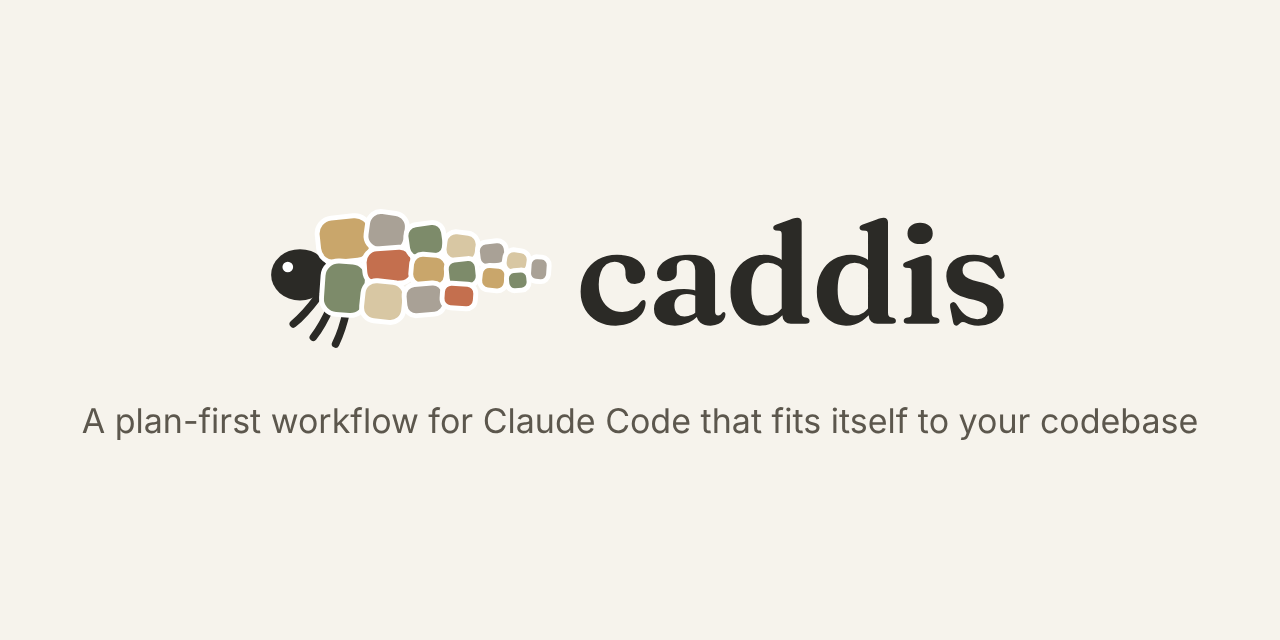
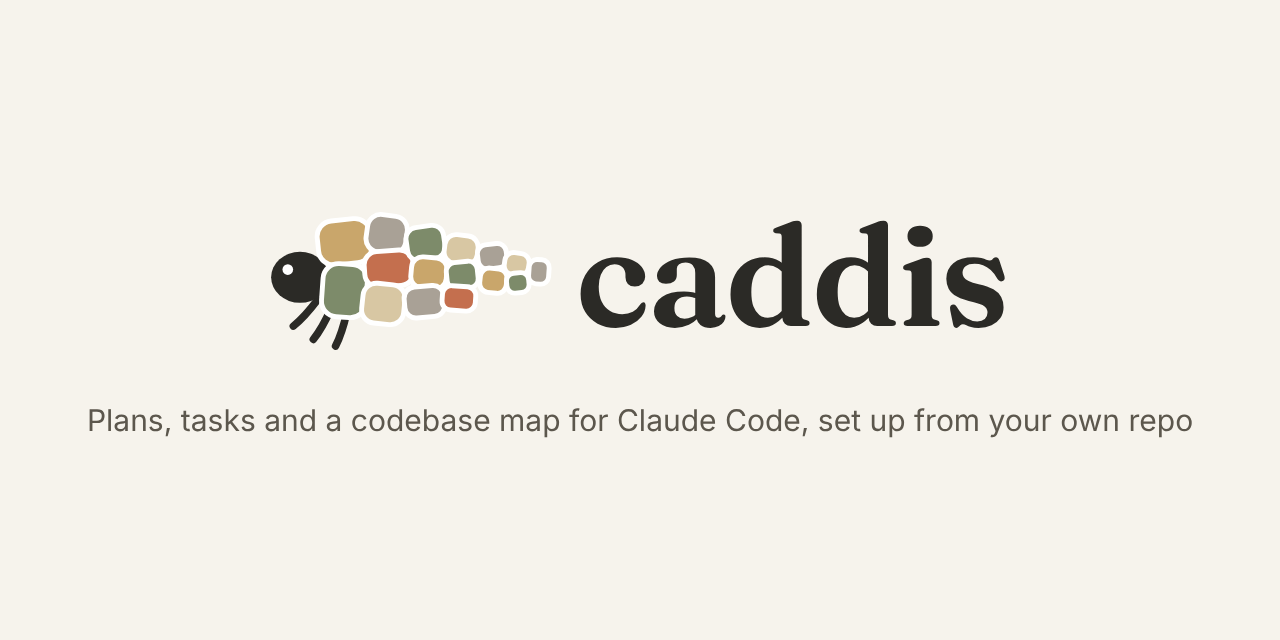
Cleaning caddis shell

diff --git a/README.md b/README.md
@@ -1,46 +1,34 @@
 <p align="center"><img src="docs/caddis-logo.svg" alt="Caddis" width="420"></p>
 
-<p align="center">A plan-first workflow for Claude Code that fits itself to your codebase.</p>
+<p align="center">Plans, tasks and a codebase map for Claude Code, set up from your own repo.</p>
 
-![A Caddis task: a small change recorded, made, checked and committed in one go](docs/demo.gif)
+![A Caddis task: the request, the task file, the edit, the checks and the commit](docs/demo.gif)
 
-Caddisfly larvae build their case from whatever is around them: sand, twigs, shell. Caddis
-does the same with your repo. One `/caddis:init` reads your codebase and writes down how it
-actually works (the commands, the rules, the risky parts, where things live), and every
-skill works from that.
+A caddisfly larva builds its case from whatever is nearby: sand, twigs, bits of shell.
+`/caddis:init` does the same with a repo. It reads the code, CI, docs and git history and
+writes `.caddis/caddis.md`: the commands, the rules that must never break, what counts as
+risky, the commit style. Every Caddis skill reads that file, so the skills stay generic and
+the repo-specific facts live in one place you can edit.
 
-What you get:
+- **Projects.** Evaluate an idea, write a plan, review all open plans in one pass, then build
+  them unattended. The build records its decisions instead of asking, and stops only for
+  publishing, spending money, secrets, or deleting outside the repo.
+- **Tasks.** Small changes skip the plan. `/caddis:task` writes a short task file, makes the
+  change, runs the checks and commits. If the work turns out risky, it becomes a project.
+- **The map.** A script builds the import graph from the imports in your code. Claude writes
+  `STRUCTURE.md` on top of it: areas, entry points, the most-imported files, the main flows,
+  where new code goes. A hook at session start says when it is out of date.
 
-- **Plans before code.** Evaluate an idea, write a plan, review every plan in one sitting,
-  then let the build run unattended. It decides and records instead of asking, and only
-  stops for things you'd want to approve: publishing, spending money, secrets, deleting
-  outside the repo.
-- **A light path for small work.** A one-line fix doesn't need a 100-line plan. `/caddis:task`
-  writes a short record, makes the change, verifies it and commits, in one go. It escalates
-  to a full plan if the work turns out risky.
-- **A codebase map Claude can trust.** A script builds the import graph from real imports
-  (no guessed edges), and Claude writes a short human map on top: what lives where, entry
-  points, hubs, the main flows, where new things go. A session-start hook says when the
-  map has gone stale.
-- **History you can read.** Every plan and task stays in `.caddis/projects/completed/` with what was
-  built, the decisions taken and what was learned.
+Finished plans and tasks stay in `.caddis/projects/completed/` with what was built and why.
 
 ## Install
-
-In Claude Code:
-
-```
-/plugin marketplace add adivmaimon/caddis
-/plugin install caddis@caddis
-```
-
-Or from your shell, in one step:
 
 ```
 claude plugin install caddis --marketplace adivmaimon/caddis
 ```
 
-In the VS Code extension, use `/plugins` (or the shell command above).
+Or inside Claude Code: `/plugin marketplace add adivmaimon/caddis`, then
+`/plugin install caddis@caddis`. In the VS Code extension the command is `/plugins`.
 
 Then, in your repo:
 
@@ -48,89 +36,78 @@ Then, in your repo:
 /caddis:init
 ```
 
-Init scans the repo, builds the map, writes `.caddis/caddis.md`, asks you a handful of
-questions in one batch (your invariants, anything it had to guess), and commits the setup.
+Init builds the map, writes `.caddis/caddis.md`, asks its questions in one batch (your
+rules, anything it had to guess) and commits.
 
-Requirements: Claude Code with plugin support, git, Python 3.8+ (for the map script, no
-packages needed).
+Needs Claude Code with plugin support, git, and Python 3.8+ for the map script.
 
-## The workflow
+## Skills
 
 | When | Skill |
 | --- | --- |
-| Start of a session | `/caddis:learn` loads recent commits, active plans, map freshness and health |
-| Is this a good idea? | `/caddis:evaluate` gives a verdict, impact per layer, risk, alternatives |
-| Small, low-risk change | `/caddis:task` records it, does it, verifies it, commits it |
-| Anything bigger | `/caddis:project` writes a plan to `.caddis/projects/active/` |
-| Before building | `/caddis:review` checks every plan, asks you everything at once, marks them Reviewed |
-| Build | `/caddis:build` runs every reviewed plan end to end, unattended |
+| Start of a session | `/caddis:learn`: recent commits, open plans, map and log health |
+| Is this worth doing? | `/caddis:evaluate`: verdict, impact per layer, risk, alternatives |
+| A small change | `/caddis:task` |
+| Anything bigger | `/caddis:project`: a plan in `.caddis/projects/active/` |
+| Before building | `/caddis:review`: checks every plan, asks you everything at once |
+| Build | `/caddis:build`: runs every reviewed plan, unattended |
 | Build one plan | `/caddis:execute` |
 | Tests | `/caddis:tests` |
-| Commit a chunk | `/caddis:commit` stages only that chunk, conventional message |
-| Done | `/caddis:complete` adds the outcome record and moves it to `completed/` |
-| Map | `/caddis:map` builds or refreshes the codebase map |
-| Monthly | `/caddis:maintenance` runs the full audit, with a running log |
+| Commit | `/caddis:commit`: stages only this chunk of work |
+| Done | `/caddis:complete`: adds the outcome and moves it to `completed/` |
+| Map | `/caddis:map` |
+| Monthly | `/caddis:maintenance`: full audit, with a log carried between runs |
 
-The usual loop: **evaluate, project, review, build.** Small things: **task.**
+You can also ask in plain words ("create a task to...", "write a plan for..."). Naming the
+skill is more reliable.
 
-### Task or project?
-
-A task must meet all of these, or it's a project:
+A change is a task only if all of these hold, otherwise it is a project:
 - about 3 files or fewer, in one layer
-- nothing on the Risk list (migrations, auth, payments, secrets, data deletion, public API
-  changes, new dependencies, plus whatever your repo adds)
-- no invariant touched
-- no experiment needed
+- nothing on the Risk list in `caddis.md`
+- no rule from `caddis.md` touched
+- no experiment needed to pick the approach
 - one commit can revert it
-
-`/caddis:project` sends qualifying work to the task path, and a task that turns out risky
-becomes a project.
 
 ## What init creates
 
 ```
 .caddis/
-  caddis.md              everything specific to this repo: commands, stack, layers,
-                         invariants, risk, docs, commit style, tests, hard stops
+  caddis.md              commands, stack, layers, rules, risk, docs, commits, tests,
+                         hard stops
   projects/active/       plans and tasks in progress
-  projects/completed/    finished plans and tasks, with outcome records
-  map/STRUCTURE.md       the human map (committed)
-  map/graph.json         the import graph (cache, gitignored, rebuilt on demand)
+  projects/completed/    finished plans and tasks
+  map/STRUCTURE.md       the map Claude reads (committed)
+  map/graph.json         the import graph (gitignored, rebuilt when needed)
   bin/map.py             the map script, so the repo works without the plugin
-CLAUDE.md                a short Caddis block pointing at the above
-.claude/settings.json    permissions merged in: Caddis skills and your commands
-                         allowed, git push and sudo denied
-.claude/skills/          repo-specific skills, only where your repo needs one
-                         (release, migrations, bench, logs)
+CLAUDE.md                a short block pointing at the above
+.claude/settings.json    Caddis skills and your commands allowed; git push and sudo denied
+.claude/skills/          repo-specific skills where the repo needs one (release,
+                         migrations, bench, logs)
 ```
 
-**Why the config file?** The skills stay generic so you can upgrade Caddis without merge
-conflicts. Everything about your repo lives in one file you can read and edit.
+Plans already in `.claude/projects/active` and `completed` are moved into
+`.caddis/projects/` with `git mv`, if you agree.
 
-**Already have `.claude/projects/active` and `completed`?** Init offers to move them into
-`.caddis/projects/` with `git mv`.
+Running init again merges with what is there and shows you the changes first.
 
 ## The map
 
 ```
-python3 .caddis/bin/map.py build            # graph.json + summary.md
-python3 .caddis/bin/map.py status           # is STRUCTURE.md stale? which areas changed?
-python3 .caddis/bin/map.py uses <file>      # what depends on this (--depth 2 for transitive)
+python3 .caddis/bin/map.py build            # write graph.json and summary.md
+python3 .caddis/bin/map.py status           # is STRUCTURE.md out of date, and where
+python3 .caddis/bin/map.py uses <file>      # what imports this (--depth 2 for indirect)
 python3 .caddis/bin/map.py deps <file>      # what this imports
-python3 .caddis/bin/map.py area <dir>       # files in an area with in and out degree
-python3 .caddis/bin/map.py orphans          # files nothing imports: entry points or dead code
+python3 .caddis/bin/map.py area <dir>       # files in an area, imported by and importing
+python3 .caddis/bin/map.py orphans          # files nothing imports
 ```
 
-Resolves imports for TypeScript and JavaScript (tsconfig paths, `@/` aliases, React Native
-platform files, Vue, Svelte), Python, Go, Rust, PHP (PSR-4), Ruby, Java and Kotlin, C and
-Objective-C, Dart, and CSS, SCSS and Less. Swift and C# appear as files without edges.
-Imports it can't resolve are counted, not guessed, and listed in `summary.md`.
-
-Tested on ten real codebases from 30 to 1,300 source files: under two seconds each.
+Resolves imports in TypeScript and JavaScript (tsconfig paths, `@/` aliases, React Native
+platform files, Vue, Svelte), Python, Go, Rust, PHP (PSR-4), Ruby, Java, Kotlin, C,
+Objective-C, Dart, CSS, SCSS and Less. Swift and C# files appear without edges. An import it
+can't resolve is counted in `summary.md`, never guessed. Nine real repos of 30 to 1,300
+source files each mapped in under two seconds.
 
 ## Plan format
-
-Plans are plain markdown with a few lines tools can read:
 
 ```markdown
 # Title
@@ -143,21 +120,32 @@ Plans are plain markdown with a few lines tools can read:
 ### Phase 2 - The UI
 ```
 
-[Monty](https://github.com/adivmaimon/monty) reads these to show plan progress in VS Code and
-the Mac menu bar.
+[Monty](https://github.com/adivmaimon/monty) reads these lines to show plan progress in VS Code
+and the Mac menu bar.
 
-## Customising
+## Settings
 
-- Edit `.caddis/caddis.md` directly. Re-run `/caddis:init` any time: it merges, and shows
-  you a diff before changing what you wrote.
-- Add your own skills in `.claude/skills/` and list them under Local skills in caddis.md so
+- `CADDIS_QUIET=1` hides the `caddis · <skill>` line shown when a skill starts. The line
+  appears in the terminal; the VS Code panel doesn't show hook messages.
+- Your own skills go in `.claude/skills/`. List them under Local skills in `caddis.md` so
   Caddis skills know when to call them.
+
+## Principles
+
+- **The repo's facts live in one file.** Skills say when to do something; `caddis.md` says
+  how, for this repo. Upgrading Caddis never touches your config.
+- **Nothing invented.** Init only records rules the repo already states. The map only draws
+  edges it can resolve.
+- **Ask once.** Questions are batched at init and review. The build decides and writes down
+  why.
+- **Stop for what can't be undone.** Publishing, money, secrets and deletions outside the
+  repo wait for you.
 
 ## Contributing
 
-Run the map tests with `python3 -m unittest discover tests`. Skills must stay generic:
-anything about a specific repo belongs in that repo's `caddis.md`.
+Tests: `python3 -m unittest discover tests`. Keep skills generic; anything about one repo
+belongs in that repo's `caddis.md`.
 
 ## License
 
-MIT
+[MIT](LICENSE). Made by [Adiv Maimon](https://adivmaimon.com).
